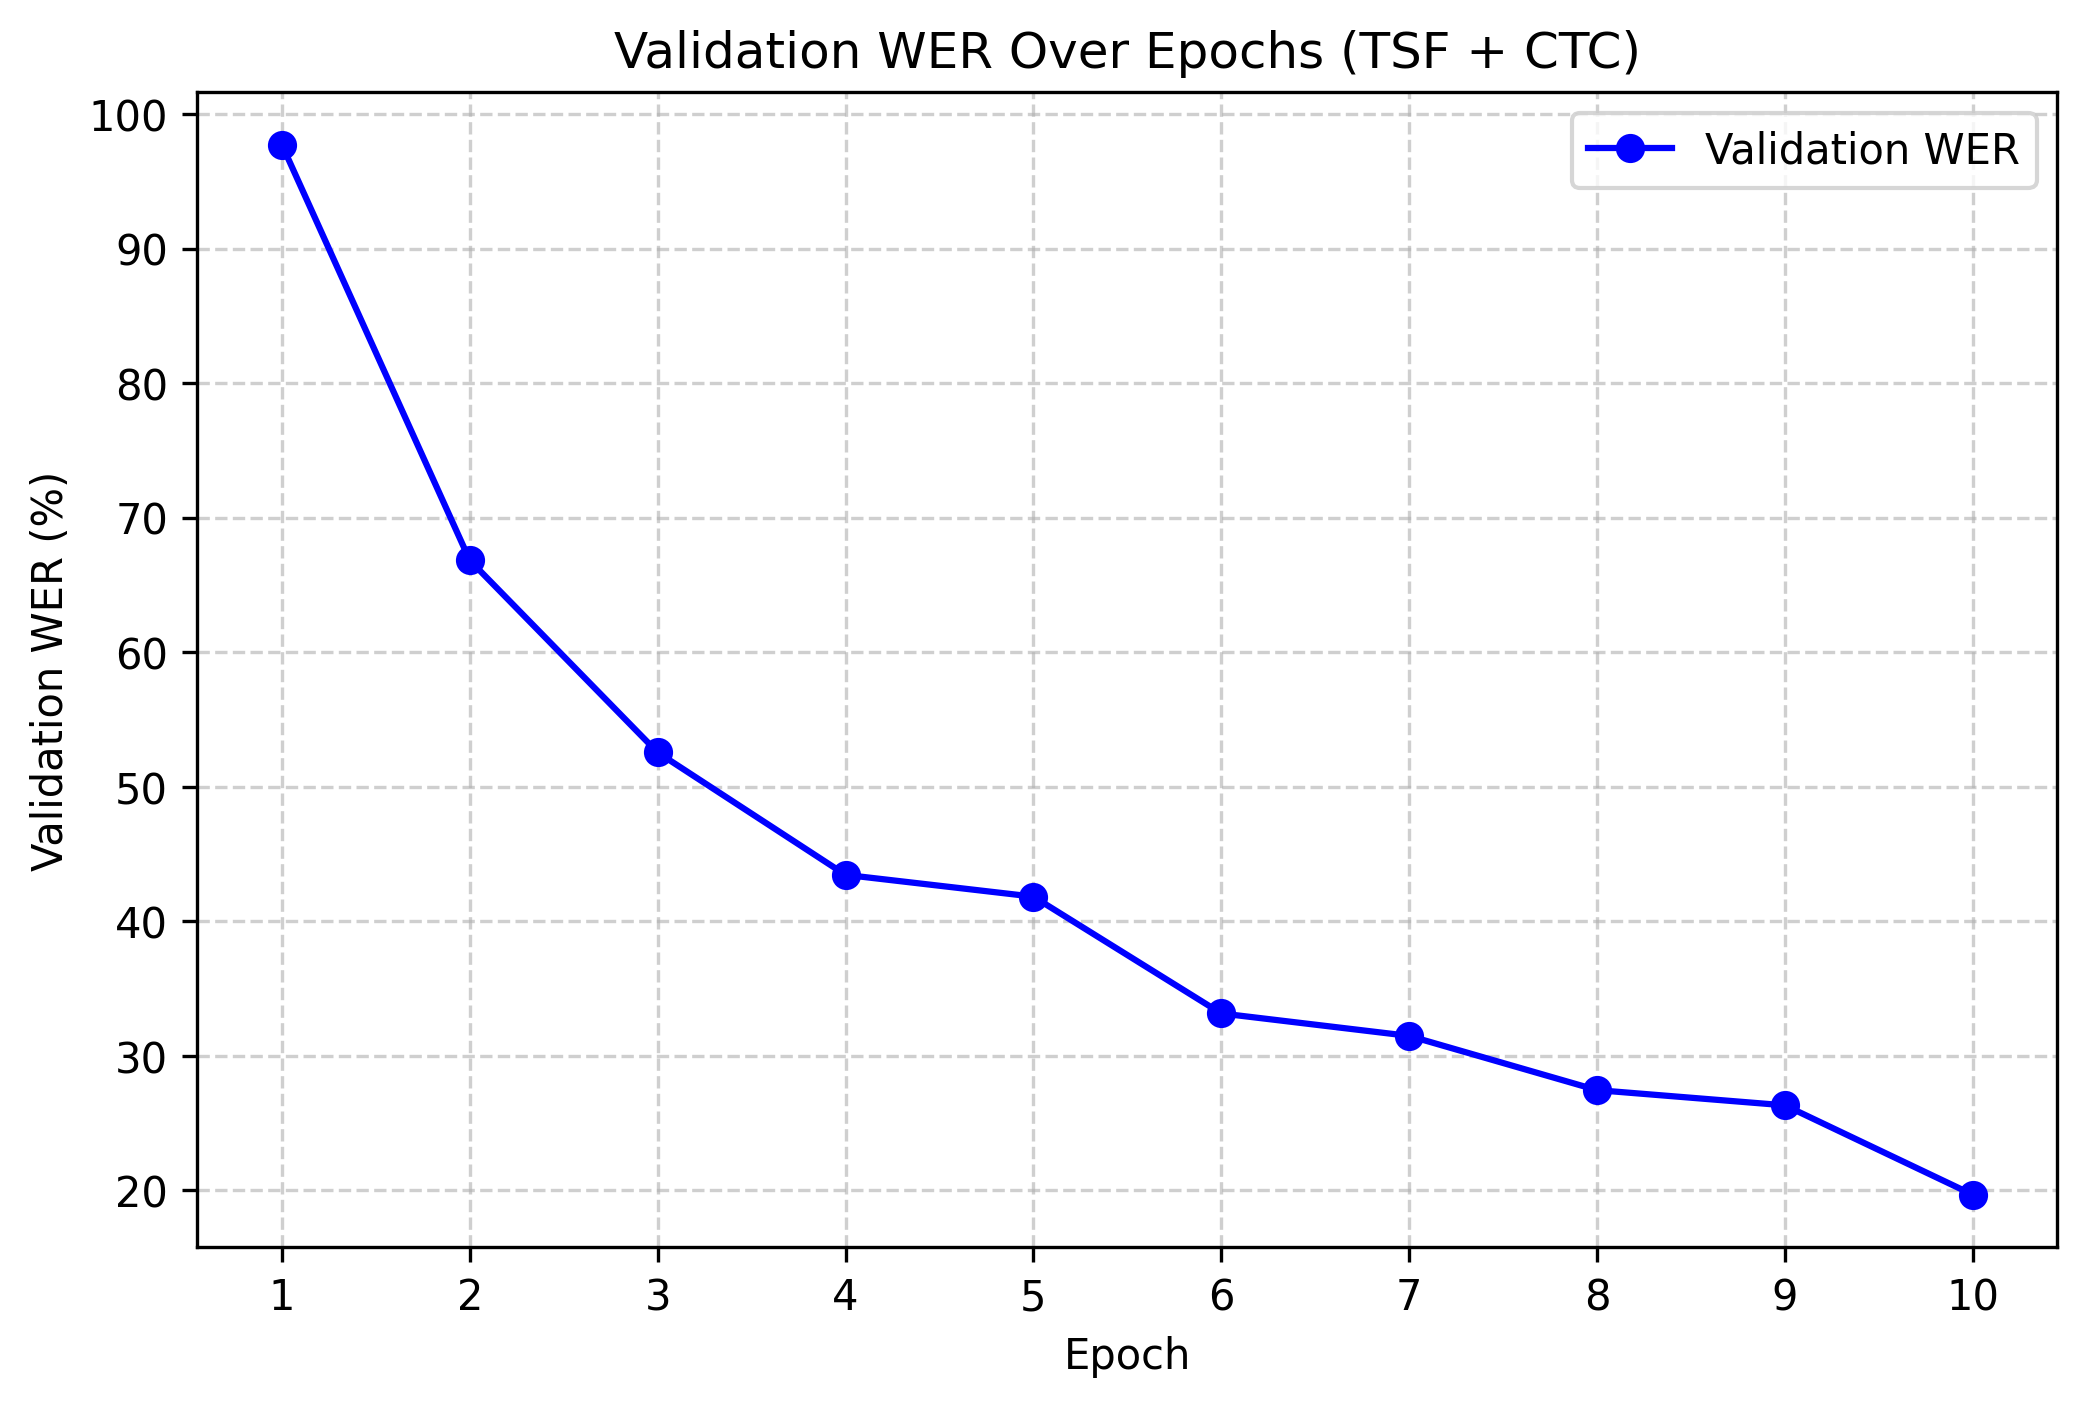
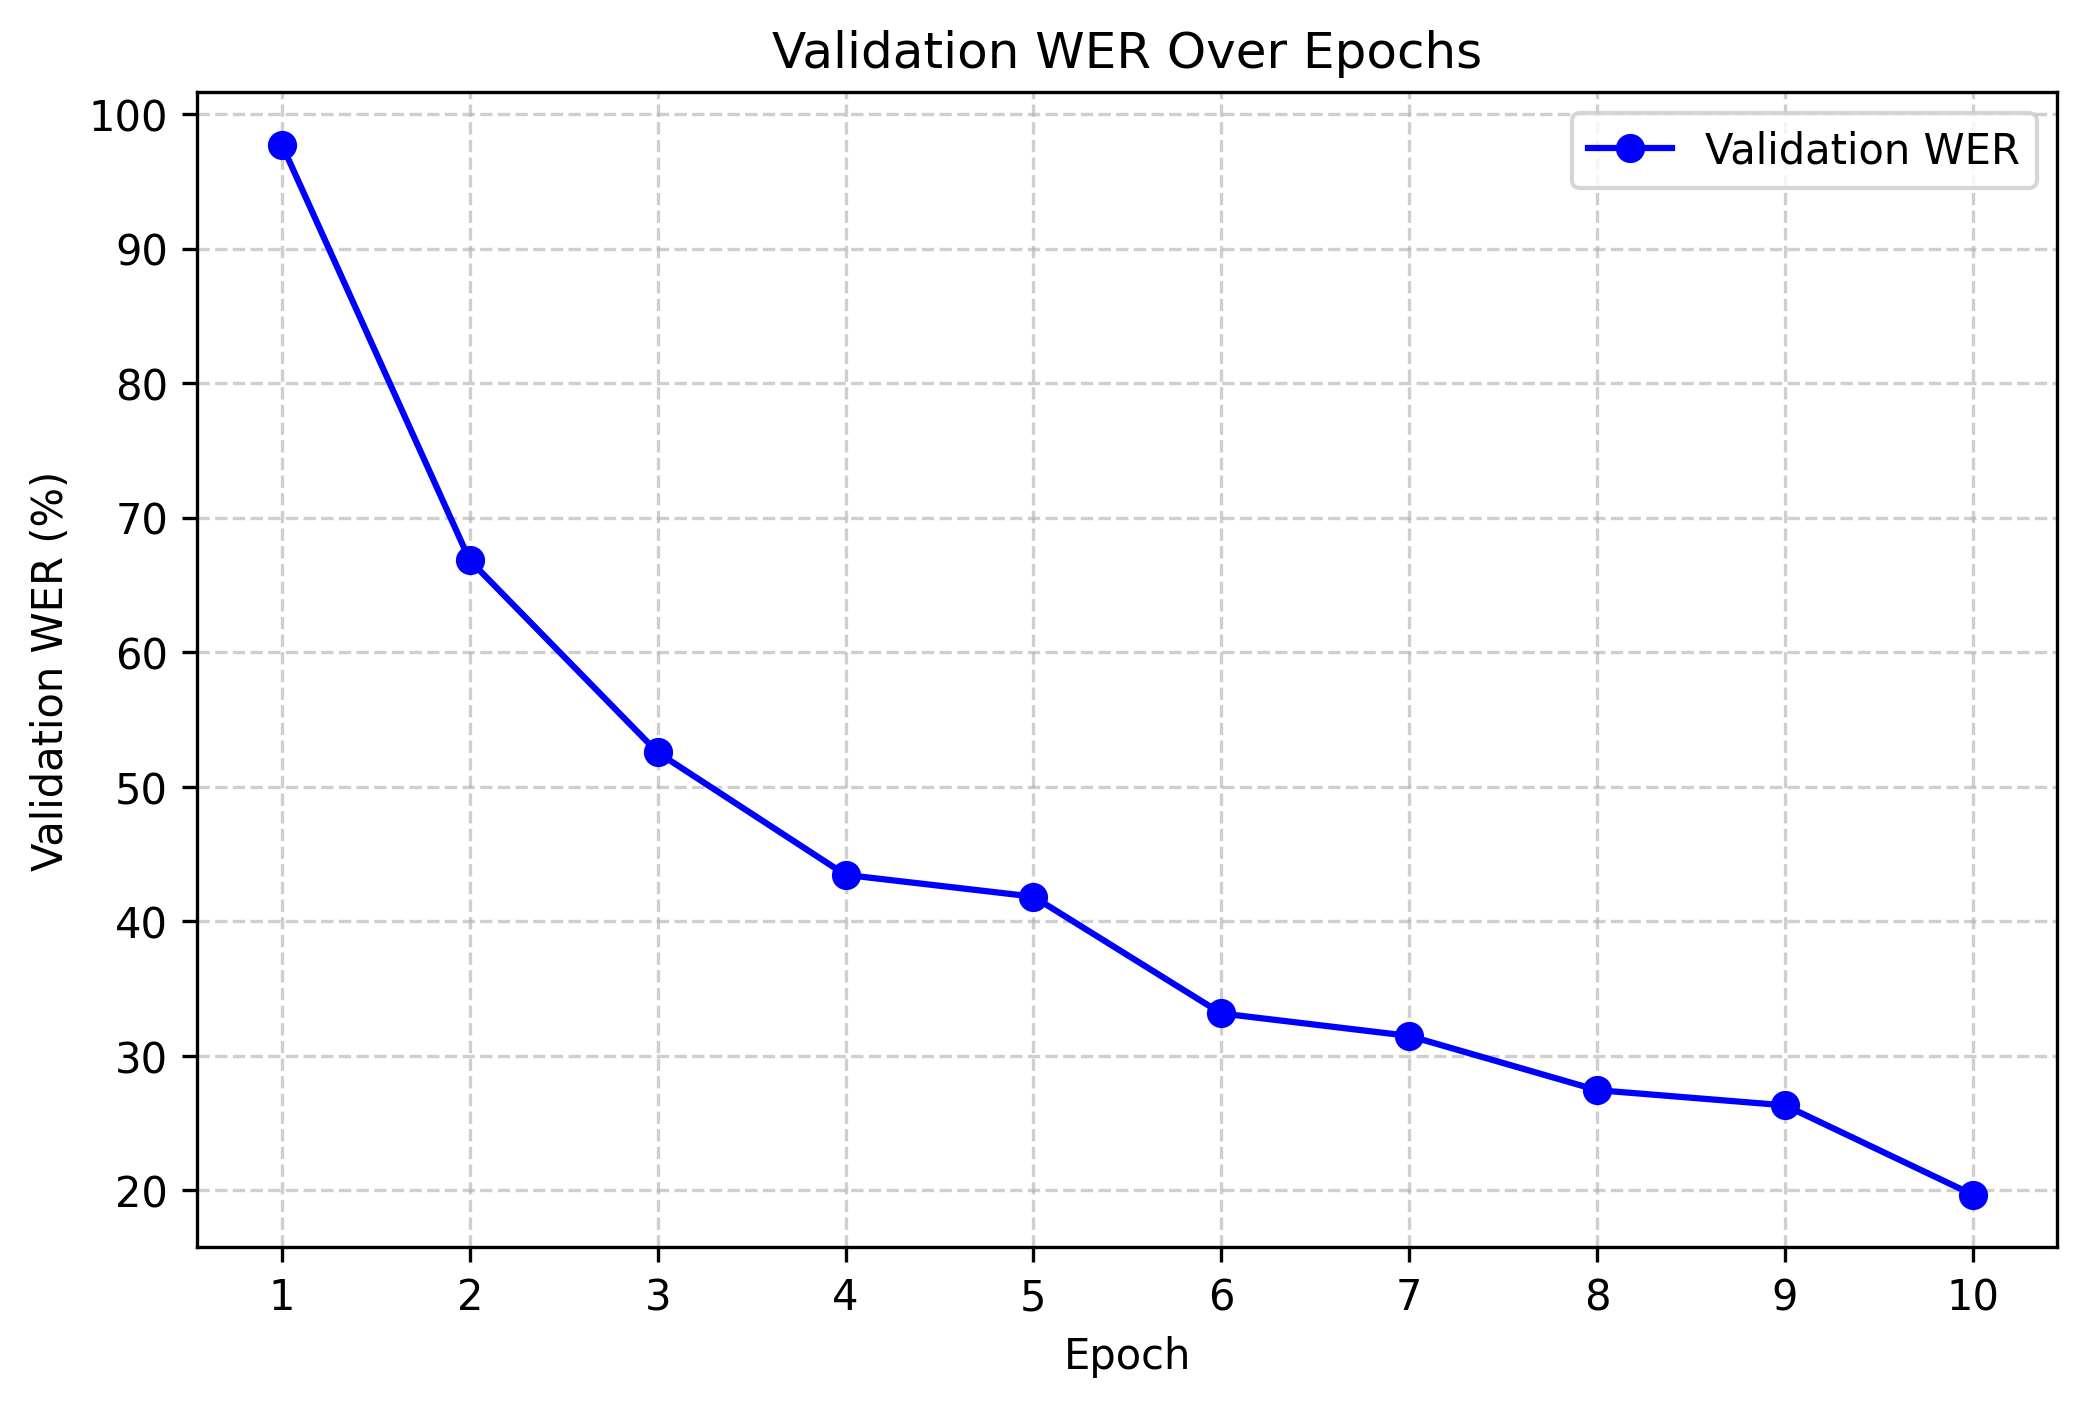
did some more graphs

Changed region(s): [[0.2803, 0.0, 0.7163, 0.0611], [0.7475, 0.0, 0.7786, 0.0611]]

diff --git a/test/accuracy_graphs.py b/test/accuracy_graphs.py
@@ -1,0 +1,23 @@
+import matplotlib.pyplot as plt
+
+# Data
+vocab_sizes = [50, 100, 150, 200]
+lstm_acc = [94.0, 93.6, 92.53, 86.2]
+tsf_acc = [93.6, 92.1, 91.0, 88.15]
+
+# Plot
+plt.figure(figsize=(8, 5))
+plt.plot(vocab_sizes, lstm_acc, marker='o', linestyle='-', label="LSTM", color='blue')
+plt.plot(vocab_sizes, tsf_acc, marker='o', linestyle='-', label="Transformer", color='orange')
+
+# Labels & Title
+plt.xlabel("Vocabulary Size (words)")
+plt.ylabel("Accuracy (%)")
+plt.title("Model Accuracy vs. Vocabulary Size")
+plt.xticks(vocab_sizes)
+plt.grid(True, linestyle='--', alpha=0.6)
+plt.legend()
+
+# Save & Show
+plt.savefig("accuracy_lstm_vs_tsf.png", dpi=300, bbox_inches="tight")
+plt.show()

diff --git a/test/CTC_graph.py b/test/CTC_graph.py
@@ -11,7 +11,7 @@ plt.plot(epochs, val_wer, marker='o', linestyle='-', color='blue', label='Valida
 # Labels & Title
 plt.xlabel("Epoch")
 plt.ylabel("Validation WER (%)")
-plt.title("Validation WER Over Epochs (TSF + CTC)")
+plt.title("Validation WER Over Epochs")
 plt.xticks(epochs)
 plt.grid(True, linestyle='--', alpha=0.6)
 plt.legend()
